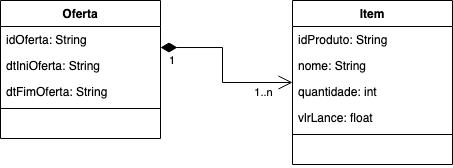
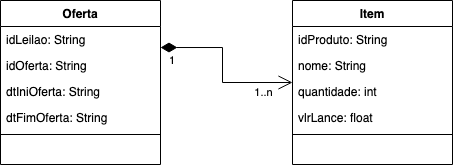
Atualiza detalhamento da interface IOferta

diff --git a/Projeto Final/README.md b/Projeto Final/README.md
@@ -143,6 +143,7 @@ Interface que faz o envio de dados do "lance" ofertado pelo `Fornecedor` que é 
 
 ~~~json
 {
+  "idLeilao": "000001",
   "idOferta": "000001",
   "dtIniOferta": "2020-09-18T21:20:00Z",
   "dtFimOferta": "2020-09-20T21:20:00Z",
@@ -162,6 +163,7 @@ Detalhamento da mensagem JSON:
 **Oferta**
 Atributo | Descrição
 -------| --------
+idLeilao | número do leilão que requisitou o produto
 idOferta | número da oferta
 dtIniOferta | data de requisicao
 dtFimOferta | itens do pedido
